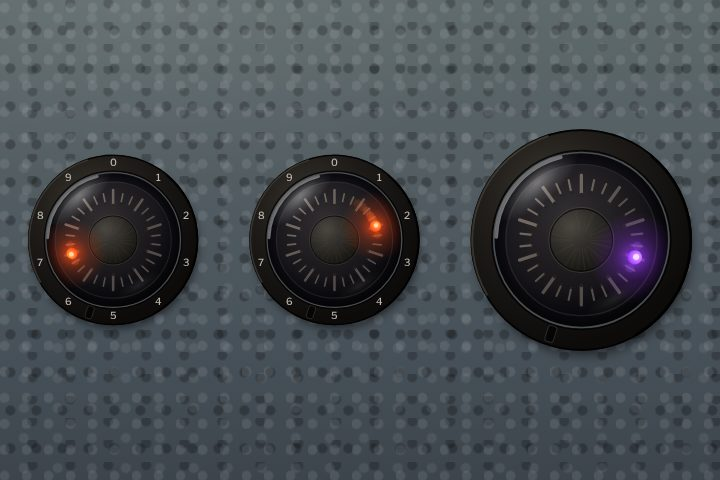
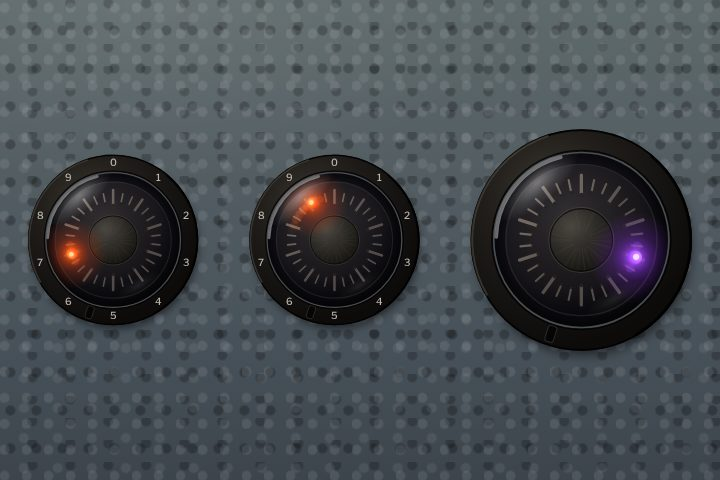
zankyo controls: build snapshot (dev-only)
Claude-Session: https://claude.ai/code/session_01HtkzWwXGAhnCfpdAxyNomu

Changed region(s): [[0.3972, 0.375, 0.5806, 0.5312]]

diff --git a/art/zankyo/controls/controls/chart-recorder-esterline-angus.html b/art/zankyo/controls/controls/chart-recorder-esterline-angus.html
@@ -66,7 +66,7 @@
   if (customElements.get("sk-chart-recorder-esterline")) return;
   const W = 240, H = 320;
   const PAP = { x: 24, y: 28, w: 192, h: 242 };        // the paper behind the glass
-  const GX0 = 36, GX1 = 204;                            // the printed 0..100 scale across the paper
+  const GX0 = 42, GX1 = 198;                            // the printed 0..100 scale across the paper
   const PVX = 120, PVY = -70, RP = 170;                 // the pen's pivot, above the case, and the arm's length
   const N = 300, DS = 0.92;                             // samples kept, and the paper each one gets
   const yTip = x => PVY + Math.sqrt(RP * RP - (x - PVX) * (x - PVX));
@@ -103,11 +103,14 @@
       <rect x="6" y="10" width="${W - 8}" height="${H - 12}" rx="8" fill="#000" opacity="0.55" filter="url(#csh)"/>
       <rect x="2" y="2" width="${W - 4}" height="${H - 4}" rx="7" fill="url(#case)" stroke="#000" stroke-width="1"/>
       <g>
-        <rect x="2" y="2" width="${W - 4}" height="${H - 4}" rx="7" filter="url(#crackle)" opacity="0.5" style="mix-blend-mode:overlay"/>
+        <rect x="2" y="2" width="${W - 4}" height="${H - 4}" rx="7" filter="url(#crackle)" opacity="0.62" style="mix-blend-mode:overlay"/>
       </g>
       <path d="M 9 2 L 231 2 Q 238 2 238 9" fill="none" stroke="#6a6a72" stroke-opacity="0.4" stroke-width="1.1"/>
       <path d="M 2 9 Q 2 2 9 2" fill="none" stroke="#8c8c96" stroke-opacity="0.5" stroke-width="1.2"/>
       <path d="M 2 ${H - 9} Q 2 ${H - 2} 9 ${H - 2} L 231 ${H - 2}" fill="none" stroke="#000" stroke-opacity="0.8" stroke-width="1.2"/>
+      <path d="M 3 ${H - 22} L 9.5 ${H - 16} L 6 ${H - 6} L 2.5 ${H - 9} Z" fill="#6b6f72"/>
+      <path d="M 3.6 ${H - 20} L 8.2 ${H - 15.4} L 5.6 ${H - 8} L 3 ${H - 10} Z" fill="#9aa0a4"/>
+      <path d="M 196 ${H - 6.4} L 214 ${H - 7.2}" stroke="#7d8184" stroke-opacity="0.35" stroke-width="0.8"/>
       <!-- the paper well behind the door -->
       <rect x="${PAP.x - 3}" y="${PAP.y - 3}" width="${PAP.w + 6}" height="${PAP.h + 6}" rx="2" fill="#0a0a0c"/>
     </svg>
@@ -120,7 +123,7 @@
           <stop offset="0.8" stop-color="#8d9295"/><stop offset="1" stop-color="#4f5356"/>
         </linearGradient>
         <linearGradient id="glassg" x1="0" y1="0" x2="1" y2="1">
-          <stop offset="0" stop-color="#fff" stop-opacity="0.2"/><stop offset="0.38" stop-color="#fff" stop-opacity="0.05"/>
+          <stop offset="0" stop-color="#fff" stop-opacity="0.26"/><stop offset="0.38" stop-color="#fff" stop-opacity="0.07"/>
           <stop offset="0.52" stop-color="#fff" stop-opacity="0"/><stop offset="1" stop-color="#fff" stop-opacity="0.05"/>
         </linearGradient>
         <radialGradient id="wellg" cx="34%" cy="28%" r="74%">
@@ -264,7 +267,12 @@
         else v = 0.52 + 0.24 * Math.sin(t * 9.1) + 0.1 * Math.sin(t * 23 + 1.2) + 0.04 * Math.sin(t * 61);
         this._h[i] = Math.max(0.03, Math.min(0.97, v));
       }
-      this._target = this._h[N - 1]; this._pen = this._target;
+      const av = parseFloat(this.getAttribute("value"));
+      if (!isNaN(av)) {
+        const end = Math.max(0, Math.min(1, av));
+        for (let i = N - 34; i < N; i++) { const u = (i - (N - 34)) / 33; this._h[i] = this._h[i] * (1 - u) + end * u; }
+      }
+      this._target = this._h[N - 1]; this._pen = this._target; this._vel = 0;
     }
     _resize() {
       const k = Math.min(4, Math.max(2, Math.ceil(2 * this._scale)));
@@ -336,8 +344,9 @@
           c.fillText(String(u), x, yTip(x) + o - 3.4);
         }
         c.textAlign = "left";
-        c.font = '500 5px "Libre Franklin", "Liberation Sans", Arial, sans-serif';
-        c.fillText(((hour % 24) + 24) % 24 + "00 HRS", 38, yTip(38) + o + 7.6);
+        c.font = '600 5px "Libre Franklin", "Liberation Sans", Arial, sans-serif';
+        const hh = ((hour % 24) + 24) % 24;
+        c.fillText((hh < 10 ? "0" : "") + hh + "h", 36.5, yTip(36.5) + o + 7.4);
         c.textAlign = "center";
         c.font = '500 5.4px "Libre Franklin", "Liberation Sans", Arial, sans-serif';
       }
@@ -347,7 +356,7 @@
       c.fillStyle = "rgba(96,86,58,0.75)"; c.textAlign = "center";
       const per2 = 168, m3 = ((S % per2) + per2) % per2;
       for (let o = m3 - per2; o < 260; o += per2) {
-        c.save(); c.translate(211, PAP.y + 40 + o); c.rotate(-Math.PI / 2);
+        c.save(); c.translate(209.5, PAP.y + 40 + o); c.rotate(-Math.PI / 2);
         c.fillText("CHART No. " + this._chart, 0, 0); c.restore();
       }
       c.restore();
@@ -374,21 +383,21 @@
       }
       // the bleed into the paper, then the line itself
       c.lineCap = "round"; c.lineJoin = "round";
-      c.strokeStyle = "rgba(168,26,28,0.16)"; c.lineWidth = 3.1;
+      c.strokeStyle = "rgba(172,30,32,0.11)"; c.lineWidth = 2.3;
       c.beginPath(); c.moveTo(px[0], py[0]);
       for (let i = 1; i < N; i++) c.lineTo(px[i], py[i]);
       c.stroke();
       for (let i = 1; i < N; i++) {
         const d = Math.abs(px[i] - px[i - 1]);
-        const w = d > 2.6 ? 0.85 : 1.05 + 0.85 * (1 - Math.min(1, d / 2.6));
+        const w = d > 2.6 ? 0.7 : 0.82 + 0.62 * (1 - Math.min(1, d / 2.6));
         c.strokeStyle = d < 0.22 ? "rgba(154,18,20,0.97)" : "rgba(200,24,26,0.95)";
         c.lineWidth = w;
         c.beginPath(); c.moveTo(px[i - 1], py[i - 1]); c.lineTo(px[i], py[i]); c.stroke();
-        if (d < 0.1 && i % 37 === 0) { c.fillStyle = "rgba(154,18,20,0.85)"; c.beginPath(); c.arc(px[i], py[i], 1.25, 0, Math.PI * 2); c.fill(); }
+        if (d < 0.1 && i % 37 === 0) { c.fillStyle = "rgba(154,18,20,0.85)"; c.beginPath(); c.arc(px[i], py[i], 1.05, 0, Math.PI * 2); c.fill(); }
       }
       // the wet ink at the nib
       c.fillStyle = "rgba(190,22,24,0.95)";
-      c.beginPath(); c.arc(px[N - 1], py[N - 1], 1.15, 0, Math.PI * 2); c.fill();
+      c.beginPath(); c.arc(px[N - 1], py[N - 1], 1.0, 0, Math.PI * 2); c.fill();
     }
   }
   customElements.define("sk-chart-recorder-esterline", SkChartRecorderEsterline);

diff --git a/art/zankyo/controls/controls/wheel-wayne-pump-computer.html b/art/zankyo/controls/controls/wheel-wayne-pump-computer.html
@@ -66,9 +66,9 @@
   var W = 300, H = 250, NS = "http://www.w3.org/2000/svg";
   // rows: x y w h  n(drums) dw  redAfter redW  fontSize
   var ROWS = [
-    { key: "sale",  x: 30,  y: 46,  w: 240, h: 48, n: 5, dw: 34, redAfter: 3, redW: 14, fs: 30 },
-    { key: "gal",   x: 30,  y: 136, w: 240, h: 40, n: 3, dw: 32, redAfter: 2, redW: 12, fs: 26 },
-    { key: "price", x: 102, y: 213, w: 96,  h: 22, n: 3, dw: 22, redAfter: 2, redW: 8,  fs: 16 }
+    { key: "sale",  x: 30,  y: 46,  w: 240, h: 42, n: 5, dw: 34, redAfter: 3, redW: 14, fs: 30 },
+    { key: "gal",   x: 30,  y: 126, w: 240, h: 36, n: 3, dw: 32, redAfter: 2, redW: 12, fs: 26 },
+    { key: "price", x: 102, y: 198, w: 96,  h: 22, n: 3, dw: 22, redAfter: 2, redW: 8,  fs: 16 }
   ];
 
   var TPL = document.createElement("template");
@@ -94,12 +94,12 @@
       '<stop offset="0.5" stop-color="#63665f"/><stop offset="0.66" stop-color="#a8aaa6"/><stop offset="0.9" stop-color="#e6e8e4"/><stop offset="1" stop-color="#7d7f7b"/>',
     '</linearGradient>',
     '<linearGradient id="drumface" x1="0" y1="0" x2="0" y2="1">',
-      '<stop offset="0" stop-color="#b9b3a4"/><stop offset="0.16" stop-color="#e8e4da"/><stop offset="0.42" stop-color="#fbf9f4"/><stop offset="0.62" stop-color="#f1eee5"/><stop offset="0.86" stop-color="#cdc7b8"/><stop offset="1" stop-color="#a49d8e"/>',
+      '<stop offset="0" stop-color="#a49d8e"/><stop offset="0.18" stop-color="#ebe7dd"/><stop offset="0.44" stop-color="#fdfcf9"/><stop offset="0.68" stop-color="#f3f0e7"/><stop offset="0.88" stop-color="#c6bfb0"/><stop offset="1" stop-color="#948d80"/>',
     '</linearGradient>',
     '<linearGradient id="cyl" x1="0" y1="0" x2="0" y2="1">',
-      '<stop offset="0" stop-color="#000" stop-opacity="0.72"/><stop offset="0.1" stop-color="#000" stop-opacity="0.38"/>',
-      '<stop offset="0.26" stop-color="#000" stop-opacity="0.08"/><stop offset="0.42" stop-color="#fff" stop-opacity="0.16"/>',
-      '<stop offset="0.6" stop-color="#000" stop-opacity="0.04"/><stop offset="0.84" stop-color="#000" stop-opacity="0.4"/><stop offset="1" stop-color="#000" stop-opacity="0.76"/>',
+      '<stop offset="0" stop-color="#000" stop-opacity="0.62"/><stop offset="0.12" stop-color="#000" stop-opacity="0.26"/>',
+      '<stop offset="0.3" stop-color="#000" stop-opacity="0.03"/><stop offset="0.45" stop-color="#fff" stop-opacity="0.14"/>',
+      '<stop offset="0.64" stop-color="#000" stop-opacity="0.02"/><stop offset="0.86" stop-color="#000" stop-opacity="0.3"/><stop offset="1" stop-color="#000" stop-opacity="0.66"/>',
     '</linearGradient>',
     '<linearGradient id="recess" x1="0" y1="0" x2="0" y2="1">',
       '<stop offset="0" stop-color="#0d0c0b"/><stop offset="1" stop-color="#2b2822"/>',
@@ -118,11 +118,10 @@
   '<path d="M 11 60 l 3.5 1.6 l -1.4 3.4 l -3.4 -2 z" fill="#8a8478"/>',
   '<path d="M 150 241 l 7 1.6 l -6 1.6 l -6 -1.4 z" fill="#8a8478" opacity="0.55"/>',
   '<!-- legends -->',
-  '<text class="leg red" x="150" y="31" style="font-size:14px">THIS SALE</text>',
-  '<text class="leg" x="150" y="124" style="font-size:14px">GALLONS</text>',
-  '<text class="leg" x="150" y="205" style="font-size:11px">PRICE PER GALLON</text>',
-  '<text class="mark" x="42" y="77" style="font-size:19px">$</text>',
-  '<text class="mark" x="207" y="230" style="font-size:13px">&#162;</text>',
+  '<text class="leg red" x="150" y="31" style="font-size:15px">THIS SALE $</text>',
+  '<text class="leg" x="150" y="112" style="font-size:15px">GALLONS</text>',
+  '<text class="leg" x="150" y="186" style="font-size:11px">PRICE PER GALLON</text>',
+  '<text class="mark" x="226" y="216" style="font-size:15px">&#162;</text>',
   '<g class="rows"></g>',
   '</svg>',
   '</div>'].join("");
@@ -230,7 +229,7 @@
         self.shadowRoot.querySelector("defs").appendChild(cp);
         var inner = mk("g", { "clip-path": "url(#" + clipId + ")" });
 
-        var drums = [], cx = sx, R = cfg.h * 0.62;
+        var drums = [], cx = sx, R = cfg.fs * 1.62;   // ten numerals round the drum: pitch = one numeral height
         for (var i = 0; i < cfg.n; i++) {
           if (i === cfg.redAfter) {
             inner.appendChild(mk("rect", { x: cx, y: cfg.y, width: cfg.redW, height: cfg.h, fill: "url(#red)" }));

diff --git a/art/zankyo/controls/controls/dekatron-ericsson-gs10c.html b/art/zankyo/controls/controls/dekatron-ericsson-gs10c.html
@@ -150,7 +150,7 @@
           <stop offset="0" stop-color="var(--core)"/><stop offset="0.45" stop-color="var(--body)"/><stop offset="1" stop-color="var(--halo)"/>
         </radialGradient>
         <radialGradient id="hl" cx="50%" cy="50%" r="50%">
-          <stop offset="0" stop-color="var(--halo)" stop-opacity="0.72"/><stop offset="0.5" stop-color="var(--halo)" stop-opacity="0.26"/><stop offset="1" stop-color="var(--halo)" stop-opacity="0"/>
+          <stop offset="0" stop-color="var(--halo)" stop-opacity="0.85"/><stop offset="0.5" stop-color="var(--halo)" stop-opacity="0.26"/><stop offset="1" stop-color="var(--halo)" stop-opacity="0"/>
         </radialGradient>
         <filter id="soft" x="-40%" y="-40%" width="180%" height="180%"><feGaussianBlur stdDeviation="3.2"/></filter>
         <filter id="soft2" x="-60%" y="-60%" width="220%" height="220%"><feGaussianBlur stdDeviation="2.2"/></filter>
@@ -191,6 +191,7 @@
           <circle cx="${f(pt(-12, RC)[0])}" cy="${f(pt(-12, RC)[1])}" r="2.4" fill="var(--guide)" opacity="0.2"/>
           <circle cx="${f(pt(12, RC)[0])}" cy="${f(pt(12, RC)[1])}" r="2.4" fill="var(--guide)" opacity="0.2"/>
           <circle cx="${C}" cy="${C - RC}" r="8.4" fill="url(#hl)" filter="url(#soft2)"/>
+          <circle cx="${C}" cy="${C - RC}" r="3.2" fill="var(--body)" opacity="0.95" filter="url(#soft2)"/>
           <circle cx="${C}" cy="${C - RC}" r="3.9" fill="url(#dot)"/>
           <circle cx="${C - 0.45}" cy="${C - RC - 0.55}" r="1.6" fill="var(--core)"/>
         </g>

diff --git a/art/zankyo/controls/controls/smeter-collins-kwm2.html b/art/zankyo/controls/controls/smeter-collins-kwm2.html
@@ -91,7 +91,7 @@
   }
   SC += tick(A9, R + 0.6, R - 10, "#c1272d", 2.4);      // the fat red tick standing at nine
   ["1", "3", "5", "7", "9"].forEach((t, j) => { SC += lbl(A0 + (j / 4) * BREAK * SWEEP, 39, "sn", t); });
-  ["+20", "+40", "+60"].forEach((t, j) => { SC += lbl(A9 + ((j + 1) / 3) * (1 - BREAK) * SWEEP, 47, "dbn", t); });
+  ["+20", "+40", "+60"].forEach((t, j) => { SC += lbl(A9 + ((j + 1) / 3) * (1 - BREAK) * SWEEP, [46.5, 47, 49.5][j], "dbn", t); });
 
   const TPL = document.createElement("template");
   TPL.innerHTML = `
@@ -101,8 +101,8 @@
     .wrap { position: absolute; inset: 0; transform-origin: 0 0; }
     svg { display: block; width: ${W}px; height: ${H}px; overflow: visible; }
     text { font-family: "Libre Franklin", "Helvetica Neue", Arial, sans-serif; fill: #1b1a17; }
-    .sn  { font-size: 7.5px; font-weight: 600; text-anchor: middle; dominant-baseline: middle; }
-    .dbn { font-size: 5px; letter-spacing: -0.02em; font-weight: 600; text-anchor: middle; dominant-baseline: middle; fill: #c1272d; }
+    .sn  { font-size: 6.5px; font-weight: 600; text-anchor: middle; dominant-baseline: middle; }
+    .dbn { font-size: 4.2px; letter-spacing: -0.02em; font-weight: 600; text-anchor: middle; dominant-baseline: middle; fill: #c1272d; }
     .cap { font-size: 3.8px; font-weight: 500; letter-spacing: 0.15em; text-anchor: middle; fill: #34322c; }
     .capr{ fill: #9a3630; }
     .mark{ font-size: 3.6px; font-weight: 500; letter-spacing: 0.1em; text-anchor: middle; fill: #514e46; }
